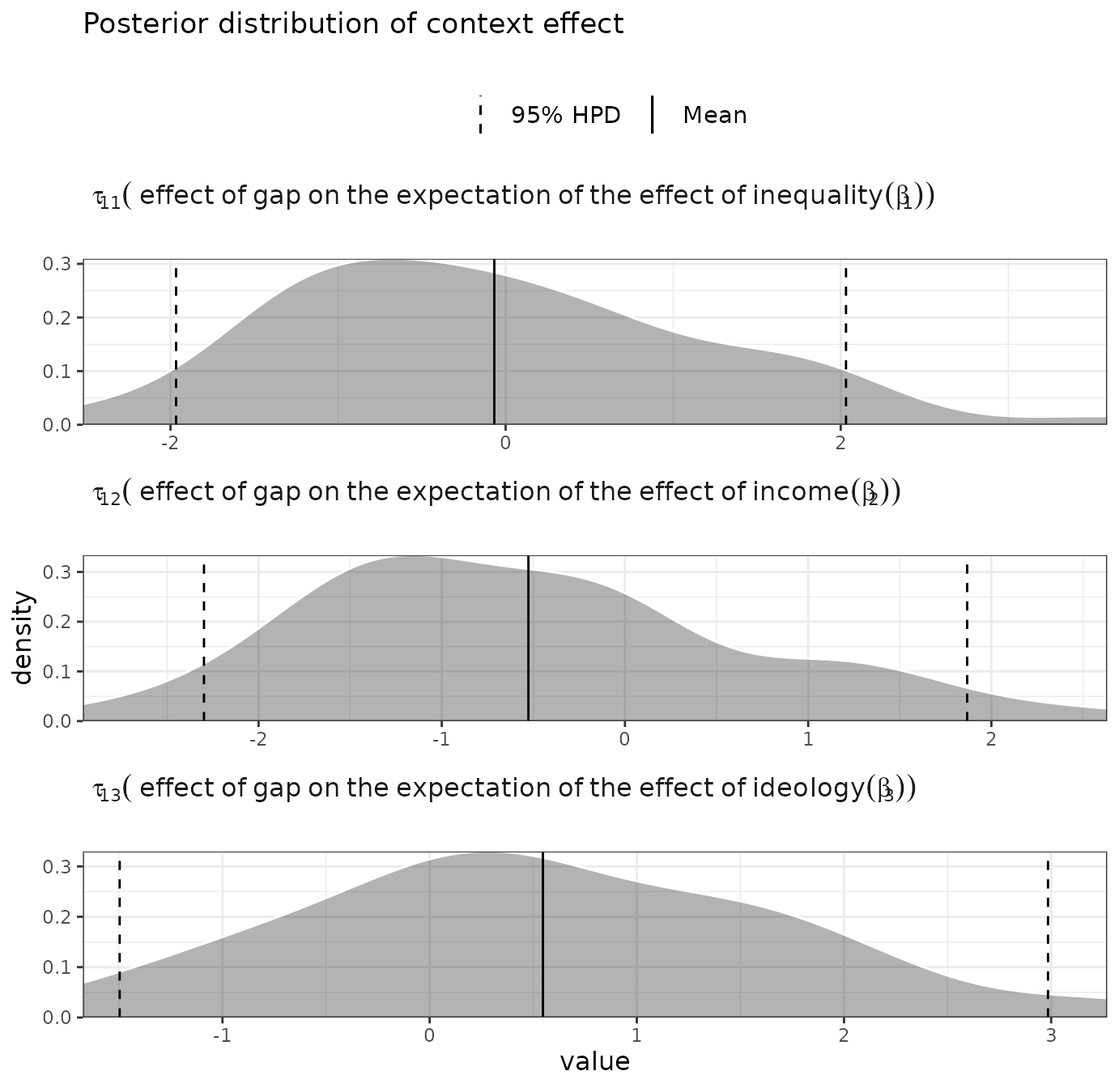
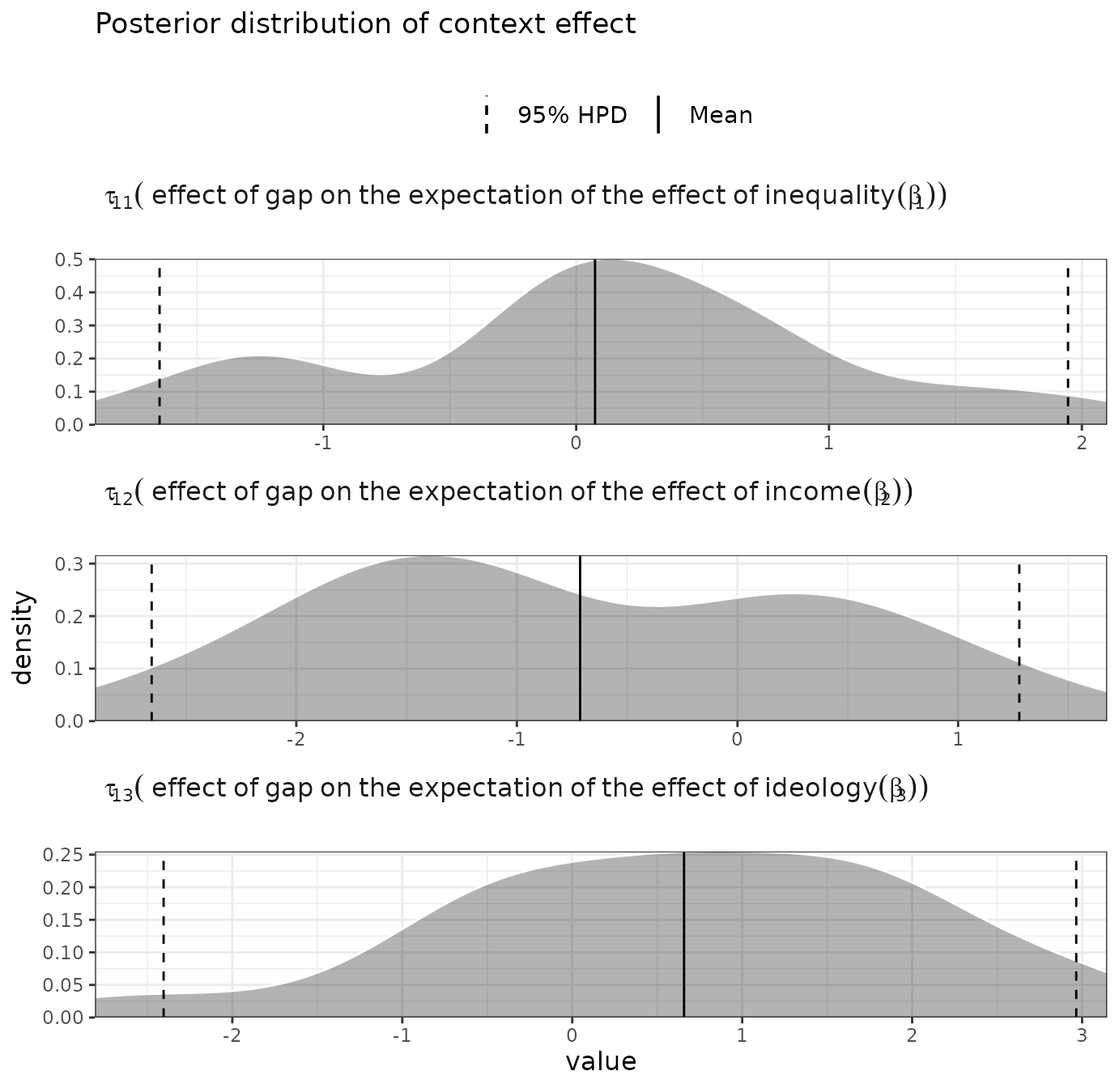
Deploying to gh-pages from @ DiogoFerrari/hdpGLM@3a892c34a9d7e3ebca529ab9e4435ff197347d46 🚀

diff --git a/articles/hdpGLM.html b/articles/hdpGLM.html
@@ -216,7 +216,7 @@ number.</p>
 <span><span class="co">#&gt; -------------------------------- </span></span>
 <span><span class="co">#&gt; dpGLM model object</span></span>
 <span><span class="co">#&gt; </span></span>
-<span><span class="co">#&gt; Maximum number of clusters activated during the estimation: 17</span></span>
+<span><span class="co">#&gt; Maximum number of clusters activated during the estimation: 12</span></span>
 <span><span class="co">#&gt; Number of MCMC iterations: 500</span></span>
 <span><span class="co">#&gt; burn-in: 10</span></span>
 <span><span class="co">#&gt; -------------------------------- </span></span>
@@ -226,22 +226,22 @@ number.</p>
 <span><span class="co">#&gt; --------------------------------</span></span>
 <span><span class="co">#&gt; Coefficients for cluster 1 (cluster label 1)</span></span>
 <span><span class="co">#&gt; </span></span>
-<span><span class="co">#&gt;               Post.Mean Post.Median  HPD.lower HPD.upper</span></span>
-<span><span class="co">#&gt; 1 (Intercept) -3.873715   -3.871650 -3.9419177 -3.799313</span></span>
-<span><span class="co">#&gt; 2  inequality  1.996367    1.997121  1.9295035  2.067975</span></span>
-<span><span class="co">#&gt; 3      income  3.845303    3.843416  3.7742272  3.913058</span></span>
-<span><span class="co">#&gt; 4    ideology -8.307966   -8.309522 -8.3707962 -8.234153</span></span>
-<span><span class="co">#&gt; 5       sigma  1.001683    1.001865  0.9102844  1.087296</span></span>
+<span><span class="co">#&gt;                Post.Mean Post.Median  HPD.lower HPD.upper</span></span>
+<span><span class="co">#&gt; 1 (Intercept) -3.8659751  -3.8657932 -3.9343325 -3.800270</span></span>
+<span><span class="co">#&gt; 2  inequality  2.0019234   2.0035928  1.9386934  2.062361</span></span>
+<span><span class="co">#&gt; 3      income  3.8476914   3.8475228  3.7718796  3.914988</span></span>
+<span><span class="co">#&gt; 4    ideology -8.3066911  -8.3064507 -8.3765852 -8.226677</span></span>
+<span><span class="co">#&gt; 5       sigma  0.9996304   0.9984239  0.9147973  1.079609</span></span>
 <span><span class="co">#&gt; </span></span>
 <span><span class="co">#&gt; --------------------------------</span></span>
-<span><span class="co">#&gt; Coefficients for cluster 2 (cluster label 11)</span></span>
+<span><span class="co">#&gt; Coefficients for cluster 2 (cluster label 2)</span></span>
 <span><span class="co">#&gt; </span></span>
-<span><span class="co">#&gt;                Post.Mean Post.Median  HPD.lower HPD.upper</span></span>
-<span><span class="co">#&gt; 1 (Intercept) -3.8150726  -3.8142184 -3.8874369 -3.743100</span></span>
-<span><span class="co">#&gt; 2  inequality -1.5279347  -1.5315021 -1.5909281 -1.456357</span></span>
-<span><span class="co">#&gt; 3      income  3.8779553   3.8772162  3.8068012  3.937593</span></span>
-<span><span class="co">#&gt; 4    ideology -8.2578467  -8.2587874 -8.3219756 -8.178930</span></span>
-<span><span class="co">#&gt; 5       sigma  0.9667212   0.9706523  0.8431746  1.054893</span></span>
+<span><span class="co">#&gt;               Post.Mean Post.Median  HPD.lower HPD.upper</span></span>
+<span><span class="co">#&gt; 1 (Intercept) -3.815402  -3.8144056 -3.8944183 -3.741041</span></span>
+<span><span class="co">#&gt; 2  inequality -1.530030  -1.5296255 -1.6163152 -1.446614</span></span>
+<span><span class="co">#&gt; 3      income  3.881512   3.8829529  3.8078850  3.949415</span></span>
+<span><span class="co">#&gt; 4    ideology -8.258276  -8.2596380 -8.3350655 -8.185283</span></span>
+<span><span class="co">#&gt; 5       sigma  0.960647   0.9641628  0.8291575  1.078545</span></span>
 <span><span class="co">#&gt; </span></span>
 <span><span class="co">#&gt; --------------------------------</span></span></code></pre></div>
 <p>The summary function prints the result in a tidy format. The column
@@ -258,16 +258,16 @@ points into clusters based on the estimation.</p>
 <span><span class="co">#&gt; 2       1  -9.3905812 -0.9906646 -0.5117102  0.2483346</span></span>
 <span><span class="co">#&gt; 3       1   0.9276234 -2.2318510 -0.3856288 -1.3619216</span></span>
 <span><span class="co">#&gt; 4       1 -12.3594498 -3.0079501 -0.9440585 -0.2088675</span></span>
-<span><span class="co">#&gt; 5      11  -2.4834411  0.1000455  0.8322192  0.1321378</span></span>
+<span><span class="co">#&gt; 5       2  -2.4834411  0.1000455  0.8322192  0.1321378</span></span>
 <span><span class="co">#&gt; 6       1 -11.4187853 -0.9543883 -0.8810503  0.2916444</span></span>
 <span><span class="fu"><a href="https://rdrr.io/r/utils/head.html" class="external-link">tail</a></span><span class="op">(</span><span class="va">welfare_clustered</span><span class="op">)</span></span>
 <span><span class="co">#&gt;      Cluster     support  inequality     income   ideology</span></span>
-<span><span class="co">#&gt; 1995      11  -1.5230053 1.055855140 -0.7295937 -0.7067871</span></span>
-<span><span class="co">#&gt; 1996      11   0.4814892 0.582588091  2.0051082  0.3090389</span></span>
-<span><span class="co">#&gt; 1997      11 -14.1929956 0.391164197 -0.9607449  0.7765482</span></span>
+<span><span class="co">#&gt; 1995       2  -1.5230053 1.055855140 -0.7295937 -0.7067871</span></span>
+<span><span class="co">#&gt; 1996       2   0.4814892 0.582588091  2.0051082  0.3090389</span></span>
+<span><span class="co">#&gt; 1997       2 -14.1929956 0.391164197 -0.9607449  0.7765482</span></span>
 <span><span class="co">#&gt; 1998       1  -8.2396789 0.074437376  1.2020300  1.0874928</span></span>
-<span><span class="co">#&gt; 1999      11 -23.1583753 0.434223018 -0.6176438  2.0387294</span></span>
-<span><span class="co">#&gt; 2000      11  -7.2075582 0.008355317 -0.4538951  0.2268072</span></span></code></pre></div>
+<span><span class="co">#&gt; 1999       2 -23.1583753 0.434223018 -0.6176438  2.0387294</span></span>
+<span><span class="co">#&gt; 2000       1  -7.2075582 0.008355317 -0.4538951  0.2268072</span></span></code></pre></div>
 <p>There are a series of built-in functions, with various options, to
 plot the results. In the example below, you see two of those options.
 The <code>separate</code> parameter plot the posterior samples for each
@@ -340,7 +340,7 @@ increase that).</p>
 <span><span class="co">#&gt; Number of clusters (summary across contexts): </span></span>
 <span><span class="co">#&gt; </span></span>
 <span><span class="co">#&gt;   Average  Std.Dev Median Min. Max.</span></span>
-<span><span class="co">#&gt; 1     5.2 1.095445      5    4    7</span></span>
+<span><span class="co">#&gt; 1     5.8 1.643168      6    3    7</span></span>
 <span><span class="co">#&gt; -------------------------------- </span></span>
 <span><span class="co">#&gt; </span></span>
 <span><span class="co">#&gt; </span></span>
@@ -349,143 +349,155 @@ increase that).</p>
 <span><span class="co">#&gt; --------------------------------</span></span>
 <span><span class="co">#&gt; Coefficients and clusters for context 1</span></span>
 <span><span class="co">#&gt; </span></span>
-<span><span class="co">#&gt;                Post.Mean Post.Median  HPD.lower  HPD.upper Cluster</span></span>
-<span><span class="co">#&gt; 1  (Intercept) -3.835050   -3.835730 -3.9205518 -3.7453447       1</span></span>
-<span><span class="co">#&gt; 2   inequality -1.263659   -1.527083 -1.6225980  0.1847649       1</span></span>
-<span><span class="co">#&gt; 3       income  3.919153    3.919837  3.8296208  4.0093341       1</span></span>
-<span><span class="co">#&gt; 4     ideology -8.295974   -8.276974 -8.4701995 -8.2137369       1</span></span>
-<span><span class="co">#&gt; 5  (Intercept) -3.310240   -3.410696 -4.0457301 -2.2803845       3</span></span>
-<span><span class="co">#&gt; 6   inequality  1.097415    1.162369  0.4655637  1.7108706       3</span></span>
-<span><span class="co">#&gt; 7       income  2.839111    2.879233  1.4662062  3.9446805       3</span></span>
-<span><span class="co">#&gt; 8     ideology -7.405830   -7.667885 -8.0612432 -5.2415350       3</span></span>
-<span><span class="co">#&gt; 9  (Intercept) -3.638716   -4.026695 -4.9438793  3.3031808       7</span></span>
-<span><span class="co">#&gt; 10  inequality  1.625881    1.612256 -1.4192852  4.6971788       7</span></span>
-<span><span class="co">#&gt; 11      income  3.976647    4.078838  1.1414005  5.6714598       7</span></span>
-<span><span class="co">#&gt; 12    ideology -6.104990   -6.619078 -7.2483318 -0.6565273       7</span></span>
-<span><span class="co">#&gt; 13 (Intercept) -3.679054   -3.877312 -3.9637139 -1.6769418      11</span></span>
-<span><span class="co">#&gt; 14  inequality  2.288014    2.019501  1.9519357  4.9660539      11</span></span>
-<span><span class="co">#&gt; 15      income  3.722558    3.838979  2.5876326  3.9370305      11</span></span>
-<span><span class="co">#&gt; 16    ideology -8.063575   -8.347024 -8.5262398 -5.0018639      11</span></span>
+<span><span class="co">#&gt;                Post.Mean Post.Median  HPD.lower   HPD.upper Cluster</span></span>
+<span><span class="co">#&gt; 1  (Intercept) -3.811185  -3.8099577 -3.8816056 -3.73441731       1</span></span>
+<span><span class="co">#&gt; 2   inequality -1.412465  -1.5579963 -1.6363451  0.09516263       1</span></span>
+<span><span class="co">#&gt; 3       income  3.879126   3.8819541  3.7937148  3.94383919       1</span></span>
+<span><span class="co">#&gt; 4     ideology -8.270575  -8.2726627 -8.3619619 -8.18357554       1</span></span>
+<span><span class="co">#&gt; 5  (Intercept) -3.649969  -3.6835649 -3.8605662 -2.96645149       2</span></span>
+<span><span class="co">#&gt; 6   inequality  2.087472   2.1104319  1.9108363  2.28846079       2</span></span>
+<span><span class="co">#&gt; 7       income  3.926120   3.9044283  3.6573013  4.48274400       2</span></span>
+<span><span class="co">#&gt; 8     ideology -8.347554  -8.3730265 -8.4856398 -8.17883095       2</span></span>
+<span><span class="co">#&gt; 9  (Intercept) -2.620762  -2.8756777 -3.2315790 -0.79007036       5</span></span>
+<span><span class="co">#&gt; 10  inequality  0.569619   0.8018768 -1.5645935  1.39764094       5</span></span>
+<span><span class="co">#&gt; 11      income  3.295915   3.3586989  2.2993716  3.90179419       5</span></span>
+<span><span class="co">#&gt; 12    ideology -7.941519  -8.2743178 -8.4715564 -5.55797740       5</span></span>
+<span><span class="co">#&gt; 13 (Intercept) -4.123714  -4.2368429 -4.6302551 -3.11339510       8</span></span>
+<span><span class="co">#&gt; 14  inequality  1.387824   1.5227359  0.4398194  1.82652779       8</span></span>
+<span><span class="co">#&gt; 15      income  3.433112   3.9418763 -0.1788692  4.27544844       8</span></span>
+<span><span class="co">#&gt; 16    ideology -7.146274  -7.7761721 -8.1312303 -3.10226866       8</span></span>
+<span><span class="co">#&gt; 17 (Intercept) -4.388634  -4.5105868 -5.7533082 -1.10614803       9</span></span>
+<span><span class="co">#&gt; 18  inequality  1.594648   1.8529712 -1.8477529  2.22239649       9</span></span>
+<span><span class="co">#&gt; 19      income  2.790069   3.5372096 -6.6960662  4.23724903       9</span></span>
+<span><span class="co">#&gt; 20    ideology -7.896674  -8.4752396 -8.9768423 -2.30441467       9</span></span>
+<span><span class="co">#&gt; 21 (Intercept) -3.719490  -3.8261676 -4.9443046 -3.61832365      10</span></span>
+<span><span class="co">#&gt; 22  inequality  2.299351   2.2115508  1.9440101  2.76796671      10</span></span>
+<span><span class="co">#&gt; 23      income  3.914468   3.9148303  0.3158269  5.55602747      10</span></span>
+<span><span class="co">#&gt; 24    ideology -7.881034  -8.2968889 -8.5591529 -6.00645822      10</span></span>
+<span><span class="co">#&gt; </span></span>
+<span><span class="co">#&gt; --------------------------------</span></span>
+<span><span class="co">#&gt; Coefficients and clusters for context 3</span></span>
+<span><span class="co">#&gt; </span></span>
+<span><span class="co">#&gt;                  Post.Mean Post.Median  HPD.lower   HPD.upper Cluster</span></span>
+<span><span class="co">#&gt; 1  (Intercept) -0.14128898 -0.13603336 -0.2521535 -0.03559550       1</span></span>
+<span><span class="co">#&gt; 2   inequality  0.05208475  0.01092208 -0.1423829  0.33127416       1</span></span>
+<span><span class="co">#&gt; 3       income -3.48301508 -3.51077614 -3.6333720 -3.34155202       1</span></span>
+<span><span class="co">#&gt; 4     ideology  1.15896007  1.15245402  1.0493479  1.29097251       1</span></span>
+<span><span class="co">#&gt; 5  (Intercept)  0.83616248  0.96277491 -3.2579235  5.20591488       2</span></span>
+<span><span class="co">#&gt; 6   inequality  0.81008089  0.49194287 -5.2869220  5.18495626       2</span></span>
+<span><span class="co">#&gt; 7       income -2.45915228 -2.68203360 -9.4377083  7.03389072       2</span></span>
+<span><span class="co">#&gt; 8     ideology -0.25487792 -0.15842189 -4.6520907  6.03979998       2</span></span>
+<span><span class="co">#&gt; 9  (Intercept) -1.57738474 -1.52637868 -2.8382177 -0.97416275       3</span></span>
+<span><span class="co">#&gt; 10  inequality -0.65751526 -0.69197182 -2.3046705  0.45475823       3</span></span>
+<span><span class="co">#&gt; 11      income -2.89564399 -3.37335120 -4.1656628  0.14931511       3</span></span>
+<span><span class="co">#&gt; 12    ideology  0.71747605  0.64618023 -0.4643760  1.44687187       3</span></span>
+<span><span class="co">#&gt; 13 (Intercept) -0.18104559 -0.17791002 -0.5256011  0.50132619       5</span></span>
+<span><span class="co">#&gt; 14  inequality -0.64701005 -0.55767769 -1.5615633 -0.33498477       5</span></span>
+<span><span class="co">#&gt; 15      income -3.95330242 -4.11183311 -4.2547573 -2.71119386       5</span></span>
+<span><span class="co">#&gt; 16    ideology  0.56215890  0.50294526  0.2886037  0.91241061       5</span></span>
+<span><span class="co">#&gt; 17 (Intercept)  0.87810424  0.85246620  0.4595276  1.33232395       6</span></span>
+<span><span class="co">#&gt; 18  inequality -0.82291108 -0.79151702 -1.1860593 -0.45901554       6</span></span>
+<span><span class="co">#&gt; 19      income -3.20945860 -3.25343146 -3.5787565 -2.74611145       6</span></span>
+<span><span class="co">#&gt; 20    ideology  1.50462908  1.44375994  1.0323898  2.21524383       6</span></span>
+<span><span class="co">#&gt; 21 (Intercept) -0.11851218 -0.11115754 -0.7407420  0.22175708       7</span></span>
+<span><span class="co">#&gt; 22  inequality  0.57806506  0.50564289  0.1565678  1.14353392       7</span></span>
+<span><span class="co">#&gt; 23      income -2.97533032 -2.81070575 -4.0931100 -2.52247816       7</span></span>
+<span><span class="co">#&gt; 24    ideology  2.28426390  2.37870855  1.5162282  2.67728711       7</span></span>
+<span><span class="co">#&gt; 25 (Intercept) -1.01495828 -0.92877948 -2.0416608 -0.07818103       8</span></span>
+<span><span class="co">#&gt; 26  inequality  0.60582641  0.71648800 -1.4555252  1.86069472       8</span></span>
+<span><span class="co">#&gt; 27      income -3.68903214 -3.62592080 -7.0543646 -2.73175653       8</span></span>
+<span><span class="co">#&gt; 28    ideology  1.88818731  2.05336205  0.1650256  4.38720708       8</span></span>
 <span><span class="co">#&gt; </span></span>
 <span><span class="co">#&gt; --------------------------------</span></span>
 <span><span class="co">#&gt; Coefficients and clusters for context 4</span></span>
 <span><span class="co">#&gt; </span></span>
 <span><span class="co">#&gt;                  Post.Mean Post.Median   HPD.lower  HPD.upper Cluster</span></span>
-<span><span class="co">#&gt; 1  (Intercept)  0.17116286  0.14909969 -0.53872727  0.9281810       1</span></span>
-<span><span class="co">#&gt; 2   inequality -0.96820681 -1.02401360 -3.06288060  2.8577652       1</span></span>
-<span><span class="co">#&gt; 3       income -2.25657944 -2.51780337 -2.63385523  2.0696568       1</span></span>
-<span><span class="co">#&gt; 4     ideology -0.21020458 -0.01221269 -5.18419496  0.2438383       1</span></span>
-<span><span class="co">#&gt; 5  (Intercept)  0.33574117  0.31735340 -0.04629298  1.1164151       2</span></span>
-<span><span class="co">#&gt; 6   inequality -1.12170290 -1.15030002 -1.38996838 -0.5037393       2</span></span>
-<span><span class="co">#&gt; 7       income -2.26796183 -2.28515205 -2.94096248 -0.8444700       2</span></span>
-<span><span class="co">#&gt; 8     ideology  0.66256661  0.63552669  0.34351236  1.2383910       2</span></span>
-<span><span class="co">#&gt; 9  (Intercept)  0.45154920  0.35351737 -0.20527119  1.0227800       3</span></span>
-<span><span class="co">#&gt; 10  inequality -0.66671100 -0.74438404 -1.03657135 -0.2552719       3</span></span>
-<span><span class="co">#&gt; 11      income -2.51776514 -2.63575850 -3.12271708 -1.6531951       3</span></span>
-<span><span class="co">#&gt; 12    ideology -0.60425881 -0.37359014 -1.91428966  0.5226239       3</span></span>
-<span><span class="co">#&gt; 13 (Intercept)  0.09359862 -0.01253591 -0.28914463  0.8969488       5</span></span>
-<span><span class="co">#&gt; 14  inequality -1.16645677 -1.20789495 -1.55451358 -0.8899782       5</span></span>
-<span><span class="co">#&gt; 15      income -2.51002136 -2.56098871 -3.13867038 -2.0084782       5</span></span>
-<span><span class="co">#&gt; 16    ideology -0.51781190 -0.46681748 -0.90597592 -0.1757184       5</span></span>
-<span><span class="co">#&gt; 17 (Intercept) -0.57678094  0.12874044 -5.92647462  2.1284888       6</span></span>
-<span><span class="co">#&gt; 18  inequality -0.68034666 -0.73971795 -6.21925701  4.6559052       6</span></span>
-<span><span class="co">#&gt; 19      income -3.22898449 -3.43891550 -6.10744570  0.3567308       6</span></span>
-<span><span class="co">#&gt; 20    ideology -0.05041177  0.82109998 -6.55373345  4.8437599       6</span></span>
+<span><span class="co">#&gt; 1  (Intercept) -0.05612484 -0.07515502 -0.23355248  0.1650195       1</span></span>
+<span><span class="co">#&gt; 2   inequality -1.09563064 -1.10797589 -1.19994478 -0.9594829       1</span></span>
+<span><span class="co">#&gt; 3       income -2.73657512 -2.75599586 -2.87327166 -2.5640254       1</span></span>
+<span><span class="co">#&gt; 4     ideology -0.48186684 -0.52381416 -0.66421299 -0.1679260       1</span></span>
+<span><span class="co">#&gt; 5  (Intercept) -0.22332927 -0.20104059 -0.68618998  0.1108628       3</span></span>
+<span><span class="co">#&gt; 6   inequality -1.67836725 -1.59673812 -3.04748211 -1.3352775       3</span></span>
+<span><span class="co">#&gt; 7       income -2.95082679 -2.96726939 -3.37681048 -2.6270437       3</span></span>
+<span><span class="co">#&gt; 8     ideology  0.32353731  0.32281160  0.10926927  0.5307830       3</span></span>
+<span><span class="co">#&gt; 9  (Intercept)  0.24521789  0.25435449  0.08431204  0.3798779       4</span></span>
+<span><span class="co">#&gt; 10  inequality -0.94334356 -0.91411426 -1.37635078 -0.6861541       4</span></span>
+<span><span class="co">#&gt; 11      income -2.36904549 -2.43210106 -2.70414856 -1.3861598       4</span></span>
+<span><span class="co">#&gt; 12    ideology -0.44594660 -0.38428980 -1.19879457 -0.1352273       4</span></span>
 <span><span class="co">#&gt; </span></span>
 <span><span class="co">#&gt; --------------------------------</span></span>
 <span><span class="co">#&gt; Coefficients and clusters for context 2</span></span>
 <span><span class="co">#&gt; </span></span>
-<span><span class="co">#&gt;                 Post.Mean Post.Median   HPD.lower   HPD.upper Cluster</span></span>
-<span><span class="co">#&gt; 1  (Intercept)  1.4869088   1.4159976  0.85987970  2.49804574       2</span></span>
-<span><span class="co">#&gt; 2   inequality  0.8452028   0.8669372  0.23398854  1.15848823       2</span></span>
-<span><span class="co">#&gt; 3       income  0.8038565   0.8440399  0.28361982  1.07624944       2</span></span>
-<span><span class="co">#&gt; 4     ideology -1.9875338  -1.8621675 -2.96526617 -1.47115960       2</span></span>
-<span><span class="co">#&gt; 5  (Intercept)  1.2160219   1.2345206  0.64440858  1.77343885       4</span></span>
-<span><span class="co">#&gt; 6   inequality  0.7906638   0.8202812  0.33533153  1.17763923       4</span></span>
-<span><span class="co">#&gt; 7       income  0.6876470   0.7016709  0.01889381  1.39544258       4</span></span>
-<span><span class="co">#&gt; 8     ideology -1.3649430  -1.2916067 -2.04318722 -0.76657970       4</span></span>
-<span><span class="co">#&gt; 9  (Intercept)  1.5801206   1.3078434  0.78470927  4.75755371       7</span></span>
-<span><span class="co">#&gt; 10  inequality  0.9034592   1.4248372 -4.82713971  3.03605769       7</span></span>
-<span><span class="co">#&gt; 11      income  1.1533809   1.2655310  0.23819496  1.80560401       7</span></span>
-<span><span class="co">#&gt; 12    ideology -2.2922069  -2.6285115 -3.25039469  2.10063790       7</span></span>
-<span><span class="co">#&gt; 13 (Intercept)  0.9683229   1.0373535 -1.25223180  5.25095643       9</span></span>
-<span><span class="co">#&gt; 14  inequality -1.4893317  -1.4716189 -6.67477820  2.17460438       9</span></span>
-<span><span class="co">#&gt; 15      income  1.8720454   2.1151393 -0.55921507  3.69710100       9</span></span>
-<span><span class="co">#&gt; 16    ideology -1.0285446  -1.1119027 -4.31843400  1.23619011       9</span></span>
-<span><span class="co">#&gt; 17 (Intercept) -0.3707455  -0.2906614 -1.46414051 -0.04936855      10</span></span>
-<span><span class="co">#&gt; 18  inequality -1.1944827  -1.1891572 -1.42770552 -0.97890382      10</span></span>
-<span><span class="co">#&gt; 19      income -0.5786515  -0.5424502 -0.79025823 -0.36505107      10</span></span>
-<span><span class="co">#&gt; 20    ideology -2.2033634  -2.3061323 -2.54271976 -1.13954864      10</span></span>
-<span><span class="co">#&gt; </span></span>
-<span><span class="co">#&gt; --------------------------------</span></span>
-<span><span class="co">#&gt; Coefficients and clusters for context 3</span></span>
-<span><span class="co">#&gt; </span></span>
-<span><span class="co">#&gt;                  Post.Mean Post.Median  HPD.lower  HPD.upper Cluster</span></span>
-<span><span class="co">#&gt; 1  (Intercept) -1.48466146  -1.4253556 -3.1885817 -0.7477250       2</span></span>
-<span><span class="co">#&gt; 2   inequality  0.28009241   0.2741804 -0.7735654  1.0012038       2</span></span>
-<span><span class="co">#&gt; 3       income -3.22841524  -3.3443263 -3.6497695 -2.3286925       2</span></span>
-<span><span class="co">#&gt; 4     ideology  1.21339989   1.3553076 -0.3443431  1.9915185       2</span></span>
-<span><span class="co">#&gt; 5  (Intercept)  0.01774836   0.2466775 -1.3181386  0.7420762       4</span></span>
-<span><span class="co">#&gt; 6   inequality -0.13442747  -0.1731420 -0.4842205  0.2664828       4</span></span>
-<span><span class="co">#&gt; 7       income -3.43529885  -3.6375321 -4.2275235 -0.3784703       4</span></span>
-<span><span class="co">#&gt; 8     ideology  1.05379180   1.0265938  0.6296705  1.5043865       4</span></span>
-<span><span class="co">#&gt; 9  (Intercept)  0.19217592   0.2524679 -0.6286662  0.7482620       7</span></span>
-<span><span class="co">#&gt; 10  inequality  0.61734764   0.6549775  0.3463767  1.1351539       7</span></span>
-<span><span class="co">#&gt; 11      income -2.57440522  -2.8430172 -3.5618107 -0.9035868       7</span></span>
-<span><span class="co">#&gt; 12    ideology  2.19180085   2.2682227  1.8161366  2.8625215       7</span></span>
-<span><span class="co">#&gt; 13 (Intercept) -0.17817561  -0.1895465 -0.5297409  0.2204278       8</span></span>
-<span><span class="co">#&gt; 14  inequality -0.47623827  -0.6359246 -0.9141406  0.9170122       8</span></span>
-<span><span class="co">#&gt; 15      income -3.96382973  -4.1233374 -4.4723486 -1.8216157       8</span></span>
-<span><span class="co">#&gt; 16    ideology  0.43608490   0.4652627 -0.4641050  0.8498888       8</span></span>
-<span><span class="co">#&gt; 17 (Intercept)  0.03410075  -0.1775383 -1.0605869  2.5202935       9</span></span>
-<span><span class="co">#&gt; 18  inequality -0.69203370  -0.6379193 -3.3322362  0.5199053       9</span></span>
-<span><span class="co">#&gt; 19      income -2.62790906  -2.9764876 -4.2610287  1.7286133       9</span></span>
-<span><span class="co">#&gt; 20    ideology  1.77872362   1.9806269 -2.2610396  4.2387174       9</span></span>
+<span><span class="co">#&gt;                 Post.Mean Post.Median  HPD.lower    HPD.upper Cluster</span></span>
+<span><span class="co">#&gt; 1  (Intercept) -0.6816438 -0.79020600 -1.1626983  0.021553591       2</span></span>
+<span><span class="co">#&gt; 2   inequality  0.1046616  0.37465967 -2.6709906  1.147338760       2</span></span>
+<span><span class="co">#&gt; 3       income  0.5779920  0.56980825  0.2173603  0.959383398       2</span></span>
+<span><span class="co">#&gt; 4     ideology -1.8157190 -1.60296429 -4.2174859 -0.545577220       2</span></span>
+<span><span class="co">#&gt; 5  (Intercept)  2.3661960  2.37099309  1.8897030  3.651023068       3</span></span>
+<span><span class="co">#&gt; 6   inequality  0.7506799  0.61628620  0.1597530  1.567457100       3</span></span>
+<span><span class="co">#&gt; 7       income  1.1042268  1.03598369  0.3585659  2.263300775       3</span></span>
+<span><span class="co">#&gt; 8     ideology -1.2917257 -1.34046913 -1.7165661 -0.600755829       3</span></span>
+<span><span class="co">#&gt; 9  (Intercept)  0.9132799  0.33344065 -1.2120240  4.415123638       5</span></span>
+<span><span class="co">#&gt; 10  inequality  0.2848475  0.29052955 -3.5409827  3.370419910       5</span></span>
+<span><span class="co">#&gt; 11      income  0.1481903 -0.02203235 -4.4534067  6.593210233       5</span></span>
+<span><span class="co">#&gt; 12    ideology -3.0208690 -3.49598873 -5.8778742  1.884794350       5</span></span>
+<span><span class="co">#&gt; 13 (Intercept) -0.2757089 -0.24571482 -0.5492057 -0.009605363       6</span></span>
+<span><span class="co">#&gt; 14  inequality -1.1746240 -1.20849902 -1.4661403 -0.825263176       6</span></span>
+<span><span class="co">#&gt; 15      income -0.6411886 -0.59039758 -1.4392784 -0.395220394       6</span></span>
+<span><span class="co">#&gt; 16    ideology -2.1035184 -2.23860040 -2.4863414 -0.277903053       6</span></span>
+<span><span class="co">#&gt; 17 (Intercept)  1.4253728  1.23504017  1.0610221  3.565011711       7</span></span>
+<span><span class="co">#&gt; 18  inequality  0.8570885  0.91465304  0.2668029  1.146532628       7</span></span>
+<span><span class="co">#&gt; 19      income  0.7932169  0.76886314  0.5035816  1.018237715       7</span></span>
+<span><span class="co">#&gt; 20    ideology -1.6682525 -1.68636280 -2.2740157 -1.452465796       7</span></span>
+<span><span class="co">#&gt; 21 (Intercept)  1.2607804  1.34087091 -3.3464691  6.326594206       9</span></span>
+<span><span class="co">#&gt; 22  inequality -0.5095171 -0.06736143 -6.0456994  3.721953036       9</span></span>
+<span><span class="co">#&gt; 23      income  2.2824517  2.63643964 -0.5762416  6.228037073       9</span></span>
+<span><span class="co">#&gt; 24    ideology -2.2901597 -1.93661224 -6.0563712  1.531846285       9</span></span>
 <span><span class="co">#&gt; </span></span>
 <span><span class="co">#&gt; --------------------------------</span></span>
 <span><span class="co">#&gt; Coefficients and clusters for context 5</span></span>
 <span><span class="co">#&gt; </span></span>
-<span><span class="co">#&gt;                  Post.Mean   Post.Median   HPD.lower   HPD.upper Cluster</span></span>
-<span><span class="co">#&gt; 1  (Intercept)  0.05327797 -0.0302423891 -0.70408299  1.07089931       3</span></span>
-<span><span class="co">#&gt; 2   inequality  1.44752487  1.5159274776  0.68586647  2.42497404       3</span></span>
-<span><span class="co">#&gt; 3       income -1.02875055 -1.0612379693 -2.03930620  0.03293921       3</span></span>
-<span><span class="co">#&gt; 4     ideology -1.61834430 -1.8216953724 -2.69801033 -0.17123332       3</span></span>
-<span><span class="co">#&gt; 5  (Intercept) -1.67658556 -1.6054552948 -2.29276048 -1.05267269       4</span></span>
-<span><span class="co">#&gt; 6   inequality -1.07769274 -1.0822862837 -1.80428125 -0.56528835       4</span></span>
-<span><span class="co">#&gt; 7       income  0.02868995  0.0003332608 -0.37552929  0.58784512       4</span></span>
-<span><span class="co">#&gt; 8     ideology -1.57191632 -1.5646018478 -2.19826906 -0.61250591       4</span></span>
-<span><span class="co">#&gt; 9  (Intercept)  1.11676004  0.9471420984  0.30006839  3.59715343       5</span></span>
-<span><span class="co">#&gt; 10  inequality -1.46905455 -1.4046334297 -3.51358142 -0.17972887       5</span></span>
-<span><span class="co">#&gt; 11      income -0.80778403 -0.5207793636 -3.39197061  0.48808285       5</span></span>
-<span><span class="co">#&gt; 12    ideology -1.88312459 -1.6788341227 -7.51034221  2.56983652       5</span></span>
-<span><span class="co">#&gt; 13 (Intercept) -0.17695488 -0.1788097212 -0.82747964  0.37057320       6</span></span>
-<span><span class="co">#&gt; 14  inequality  0.74982527  0.8037699469 -0.25196988  1.21600658       6</span></span>
-<span><span class="co">#&gt; 15      income  0.23791787  0.0514154257 -0.48780781  2.96994452       6</span></span>
-<span><span class="co">#&gt; 16    ideology -2.08284826 -2.3062287163 -2.88275610  1.38138343       6</span></span>
-<span><span class="co">#&gt; 17 (Intercept)  0.18013533  0.1687989479 -0.06679425  0.51190162       7</span></span>
-<span><span class="co">#&gt; 18  inequality -2.71426173 -2.7434513502 -3.02369945 -2.16089588       7</span></span>
-<span><span class="co">#&gt; 19      income  0.09911700  0.0402475072 -0.25100134  1.33501621       7</span></span>
-<span><span class="co">#&gt; 20    ideology -2.33078530 -2.4056657453 -2.74135102 -1.42135069       7</span></span>
-<span><span class="co">#&gt; 21 (Intercept) -0.12372037 -0.1639090579 -0.82479947  0.58656701       8</span></span>
-<span><span class="co">#&gt; 22  inequality  0.88393401  0.7235603719  0.28929004  2.82755575       8</span></span>
-<span><span class="co">#&gt; 23      income -0.79743714 -0.6396553433 -2.94812296 -0.02039296       8</span></span>
-<span><span class="co">#&gt; 24    ideology -1.56697973 -1.5350585222 -2.58752854  0.25084894       8</span></span>
-<span><span class="co">#&gt; 25 (Intercept)  0.62559821  0.7224444872 -3.25588992  1.64335993       9</span></span>
-<span><span class="co">#&gt; 26  inequality -2.92155657 -3.0710043524 -5.34361866 -0.97848394       9</span></span>
-<span><span class="co">#&gt; 27      income -1.30332701 -1.1544859487 -3.18558994  0.38345647       9</span></span>
-<span><span class="co">#&gt; 28    ideology -2.40726202 -2.7708770491 -4.60976607  1.31138316       9</span></span>
+<span><span class="co">#&gt;                 Post.Mean Post.Median   HPD.lower   HPD.upper Cluster</span></span>
+<span><span class="co">#&gt; 1  (Intercept) -1.3433463  -1.3327798 -1.76934006 -0.91235204       2</span></span>
+<span><span class="co">#&gt; 2   inequality -0.6575240  -0.6327312 -1.03818019 -0.27441494       2</span></span>
+<span><span class="co">#&gt; 3       income  0.6066561   0.4494879  0.11468513  1.52118123       2</span></span>
+<span><span class="co">#&gt; 4     ideology -0.6250837  -0.6337392 -1.22795210 -0.01236669       2</span></span>
+<span><span class="co">#&gt; 5  (Intercept) -0.1953157  -0.1865778 -0.38888415  0.07465922       3</span></span>
+<span><span class="co">#&gt; 6   inequality  0.7219189   0.6491233  0.42647830  1.53778453       3</span></span>
+<span><span class="co">#&gt; 7       income -0.2838619  -0.5031699 -0.73910636  1.55513231       3</span></span>
+<span><span class="co">#&gt; 8     ideology -1.6238775  -1.7384264 -2.00180816 -0.23559411       3</span></span>
+<span><span class="co">#&gt; 9  (Intercept)  0.8993659   0.8840215  0.52457083  1.21888926       4</span></span>
+<span><span class="co">#&gt; 10  inequality -2.0833676  -2.0963615 -2.40820781 -1.61971845       4</span></span>
+<span><span class="co">#&gt; 11      income  0.5387124   0.5672164  0.04677921  1.84489053       4</span></span>
+<span><span class="co">#&gt; 12    ideology -2.5930525  -2.6164332 -2.79227664 -2.32627547       4</span></span>
+<span><span class="co">#&gt; 13 (Intercept)  1.4337470   1.3392234  0.83769416  3.17805736       5</span></span>
+<span><span class="co">#&gt; 14  inequality -2.5273660  -2.4432113 -3.57726172 -1.82624928       5</span></span>
+<span><span class="co">#&gt; 15      income -1.1638400  -1.1906644 -1.47276537 -0.45504445       5</span></span>
+<span><span class="co">#&gt; 16    ideology -0.7886600  -1.6518012 -2.36224423  2.30528171       5</span></span>
+<span><span class="co">#&gt; 17 (Intercept) -0.1603341  -0.1393350 -0.50548333  0.25352794       6</span></span>
+<span><span class="co">#&gt; 18  inequality  1.8447117   1.7873231  1.61667249  2.37685283       6</span></span>
+<span><span class="co">#&gt; 19      income -0.7051165  -0.5379133 -2.52311655 -0.21774179       6</span></span>
+<span><span class="co">#&gt; 20    ideology -1.9542902  -1.9612774 -2.20189222 -1.62397904       6</span></span>
+<span><span class="co">#&gt; 21 (Intercept) -0.5805174  -0.5798215 -1.09759017 -0.04375509       7</span></span>
+<span><span class="co">#&gt; 22  inequality -2.0692641  -2.1634434 -2.30283543 -1.62005130       7</span></span>
+<span><span class="co">#&gt; 23      income  0.2505353   0.2684106 -0.20055673  0.76392994       7</span></span>
+<span><span class="co">#&gt; 24    ideology -2.6731727  -2.7299630 -3.16590433 -1.72738959       7</span></span>
+<span><span class="co">#&gt; 25 (Intercept)  0.1487703   0.1169361 -0.18990964  0.62806810       8</span></span>
+<span><span class="co">#&gt; 26  inequality -3.3990786  -3.3581949 -3.71303803 -2.97420486       8</span></span>
+<span><span class="co">#&gt; 27      income -0.5539201  -0.4143206 -1.50087172  0.24352511       8</span></span>
+<span><span class="co">#&gt; 28    ideology -2.2567867  -2.3633161 -2.72390939 -1.22702897       8</span></span>
 <span><span class="co">#&gt; </span></span>
 <span><span class="co">#&gt; --------------------------------</span></span>
 <span><span class="co">#&gt; Context-level coefficients:</span></span>
-<span><span class="co">#&gt;                Description   Post.Mean HPD.lower HPD.upper</span></span>
-<span><span class="co">#&gt; 1     Intercept of beta[0]  0.12619947 -1.801457  2.838104</span></span>
-<span><span class="co">#&gt; 2     Intercept of beta[1]  0.05711040 -2.335675  2.859441</span></span>
-<span><span class="co">#&gt; 3     Intercept of beta[2]  0.06469138 -2.658142  3.017111</span></span>
-<span><span class="co">#&gt; 4     Intercept of beta[3] -1.15512670 -3.720378  1.392619</span></span>
-<span><span class="co">#&gt; 5 Effect of gap on beta[0] -0.26597899 -2.944234  1.489864</span></span>
-<span><span class="co">#&gt; 6 Effect of gap on beta[1] -0.06752216 -1.966709  2.031430</span></span>
-<span><span class="co">#&gt; 7 Effect of gap on beta[2] -0.52717792 -2.298119  1.867981</span></span>
-<span><span class="co">#&gt; 8 Effect of gap on beta[3]  0.54672003 -1.496271  2.984713</span></span>
+<span><span class="co">#&gt;                Description     Post.Mean HPD.lower HPD.upper</span></span>
+<span><span class="co">#&gt; 1     Intercept of beta[0] -2.902732e-01 -2.745630 2.0690437</span></span>
+<span><span class="co">#&gt; 2     Intercept of beta[1]  9.917694e-02 -2.217975 2.4043891</span></span>
+<span><span class="co">#&gt; 3     Intercept of beta[2] -1.745109e-01 -2.348514 2.6766194</span></span>
+<span><span class="co">#&gt; 4     Intercept of beta[3] -1.548039e+00 -3.565747 0.9644052</span></span>
+<span><span class="co">#&gt; 5 Effect of gap on beta[0]  4.076318e-05 -1.614047 2.1879152</span></span>
+<span><span class="co">#&gt; 6 Effect of gap on beta[1]  7.459209e-02 -1.647702 1.9453759</span></span>
+<span><span class="co">#&gt; 7 Effect of gap on beta[2] -7.132128e-01 -2.655515 1.2776184</span></span>
+<span><span class="co">#&gt; 8 Effect of gap on beta[3]  6.579803e-01 -2.404379 2.9656720</span></span>
 <span><span class="co">#&gt; </span></span>
 <span><span class="co">#&gt; --------------------------------</span></span></code></pre></div>
 <p>The <code>summary</code> contains more information now. As before,
